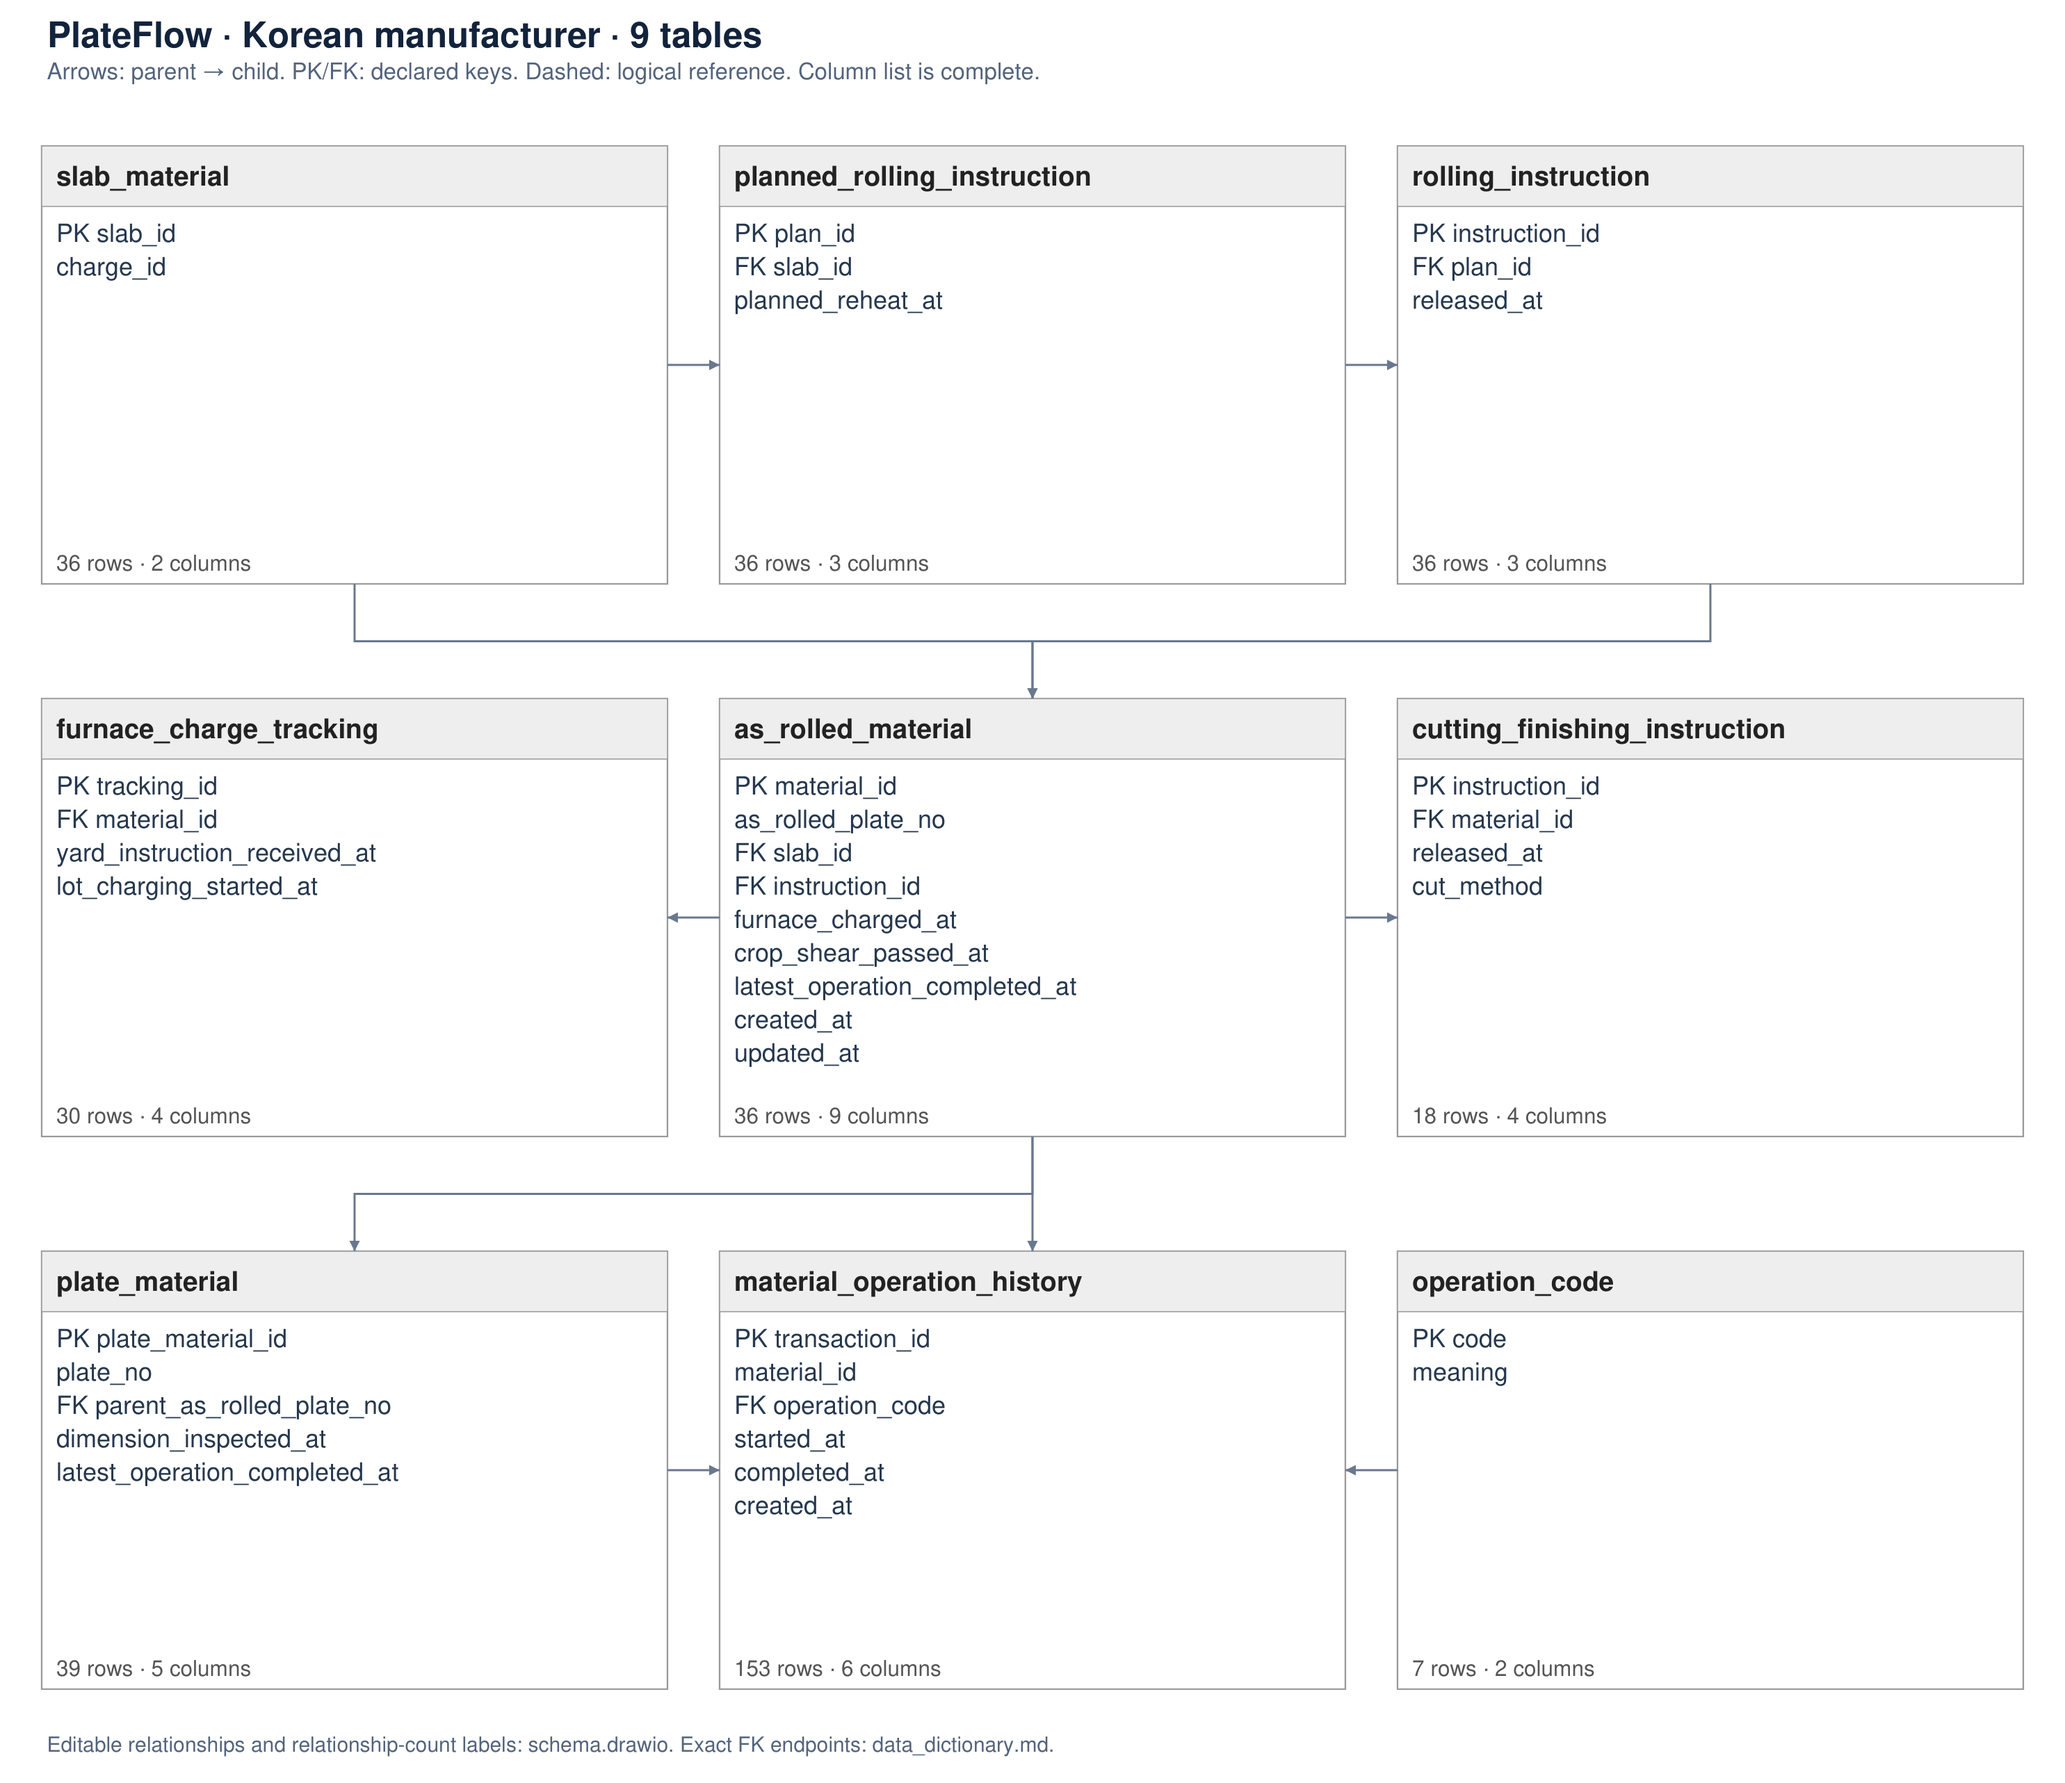
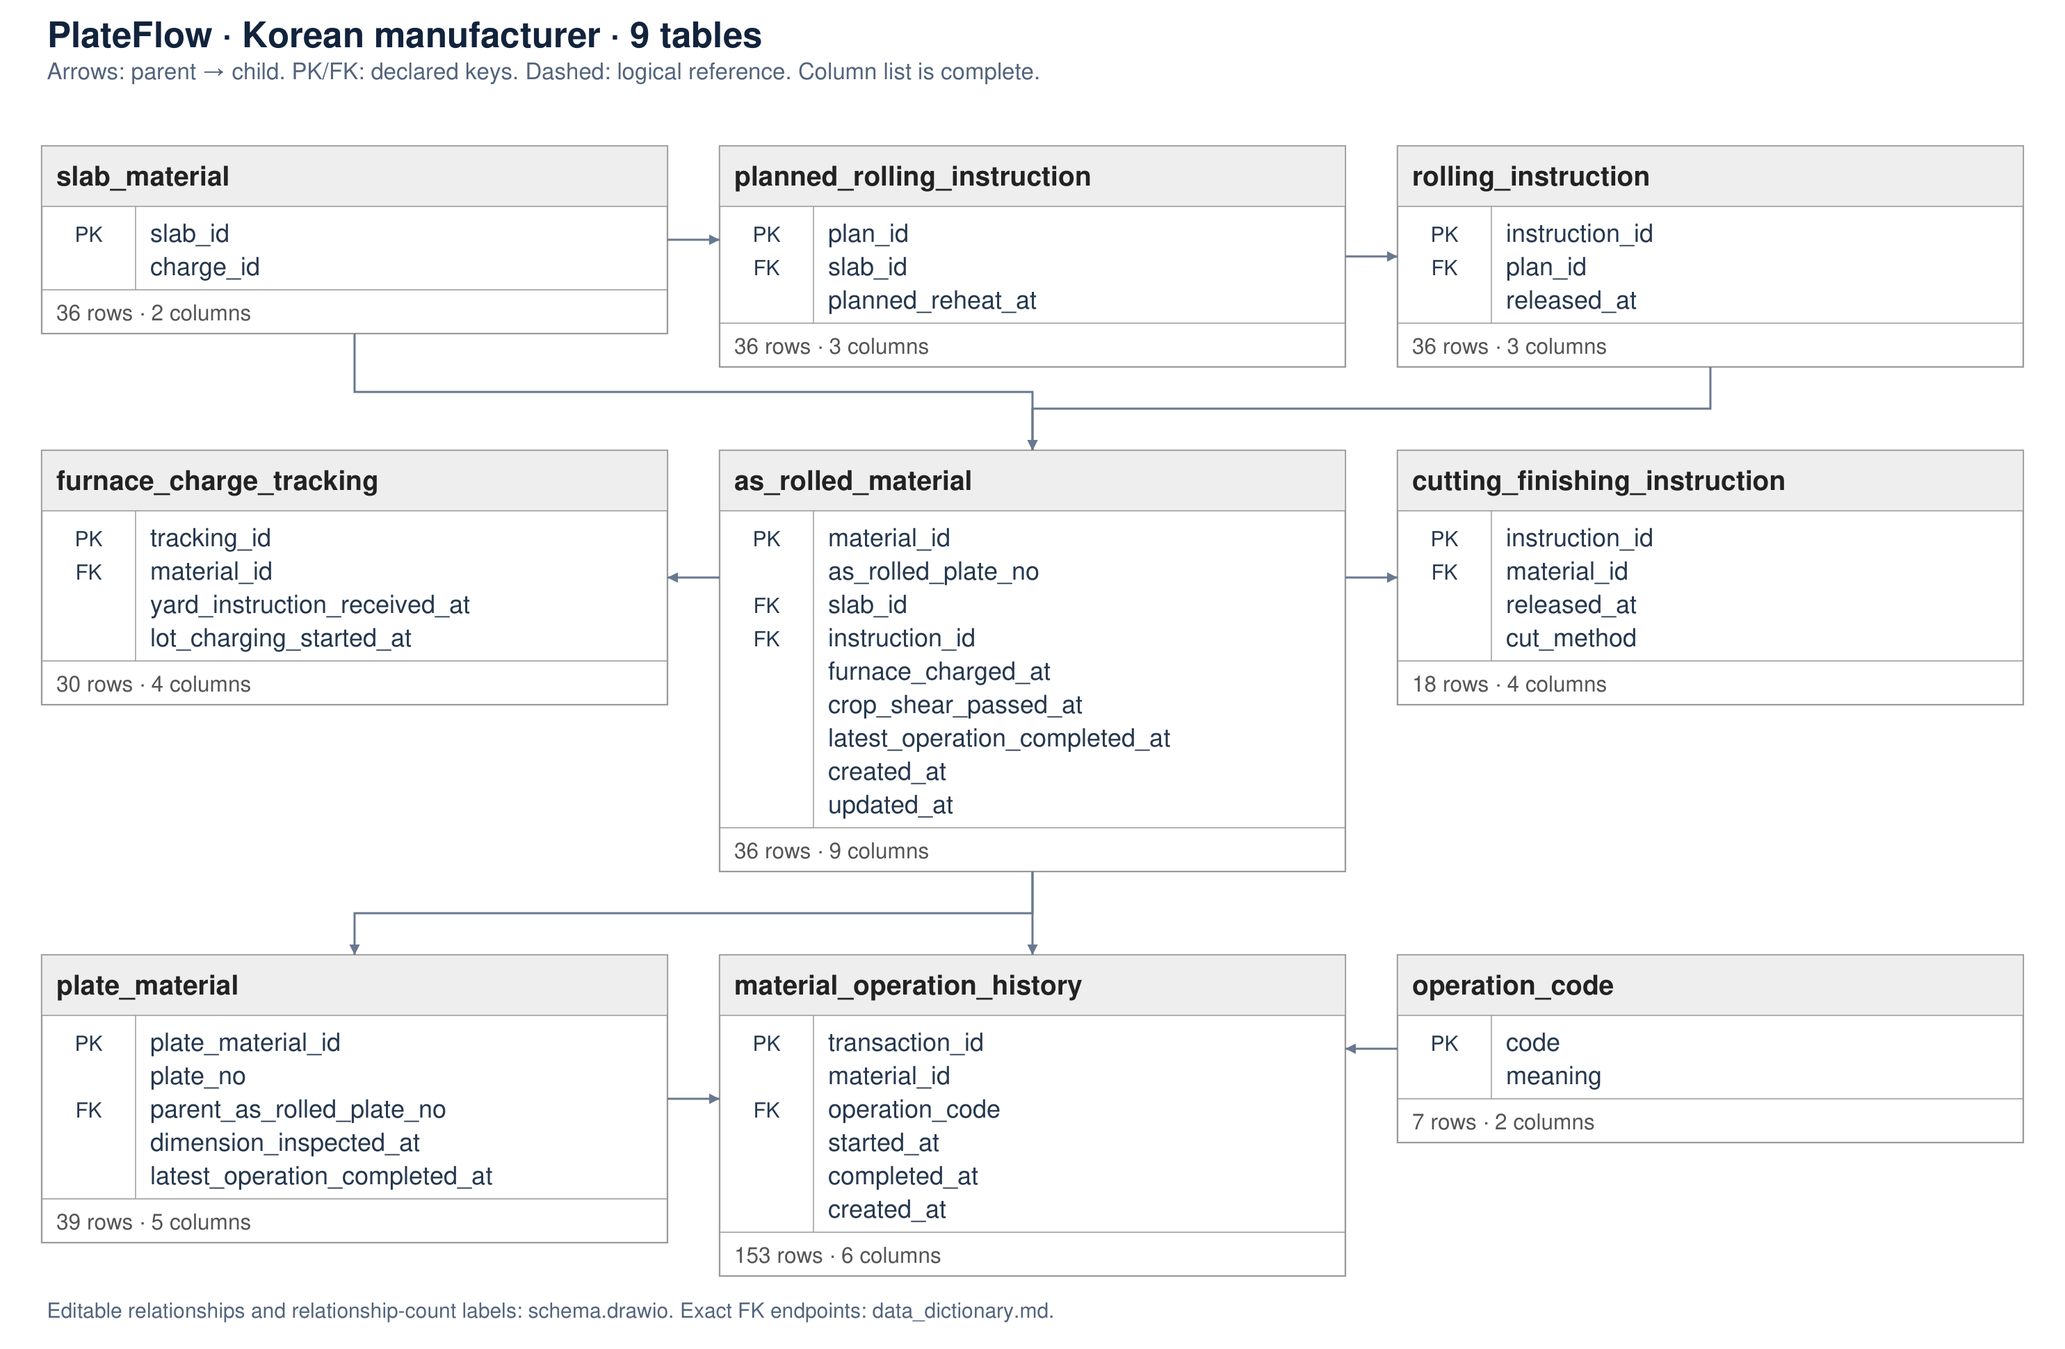
Add dedicated PK/FK column and compact schema table heights

diff --git a/make_docs.py b/make_docs.py
@@ -44,8 +44,15 @@ def build(name,positions,title):
   relationships += [dict(parent=t,child="material_operation_history",label="logical 1 : 0..N",logical=True,from_col="material_id",to_col="material_id" if t=="as_rolled_material" else "plate_material_id") for t in ["as_rolled_material","plate_material"]]
  js=lambda n,o:(out/n).write_text(json.dumps(o,indent=2)+"\n")
  js("schema_summary.json",dict(table_count=len(tables),tables={n:dict(row_count=i["rows"],column_count=len(i["cols"]),primary_key=[r["name"] for r in i["cols"] if r["pk"]]) for n,i in info.items()},relationships=relationships))
- width=1980; height=1180 if name=="universityflow" else 1710; bw,bh=600,420
- positions={n:(40+round((x-65)/510)*650,140+round((y-130)/350)*530) for n,(x,y) in positions.items()}
+ width,bw,key_width=1980,600,90
+ heights={n:116+32*len(i["cols"]) for n,i in info.items()}
+ grid={n:(round((x-65)/510),round((y-130)/350)) for n,(x,y) in positions.items()}
+ row_y={};cursor=140
+ for row in sorted({r for _,r in grid.values()}):
+  row_y[row]=cursor
+  cursor+=max(heights[n] for n,(_,r) in grid.items() if r==row)+80
+ positions={n:(40+col*650,row_y[row]) for n,(col,row) in grid.items()}
+ height=cursor-10
  svg=[f'<svg xmlns="http://www.w3.org/2000/svg" width="{width}" height="{height}" viewBox="0 0 {width} {height}">', '<rect width="100%" height="100%" fill="#ffffff"/>',
  '<defs><marker id="arrow" viewBox="0 0 10 10" refX="9" refY="5" markerWidth="7" markerHeight="7" orient="auto-start-reverse"><path d="M 0 0 L 10 5 L 0 10 z" fill="#69788e"/></marker></defs>',
  f'<text x="45" y="45" font-family="sans-serif" font-size="34" font-weight="bold" fill="#12233c">{esc(title)} · {len(tables)} tables</text>',
@@ -57,10 +64,11 @@ def build(name,positions,title):
  edge_svg=[]
  for j,r in enumerate(relationships):
   x1,y1=positions[r["parent"]];x2,y2=positions[r["child"]]
-  if y2>y1: sx,sy,tx,ty=x1+bw/2,y1+bh,x2+bw/2,y2
-  elif y2<y1:sx,sy,tx,ty=x1+bw/2,y1,x2+bw/2,y2+bh
-  elif x2>x1:sx,sy,tx,ty=x1+bw,y1+bh/2,x2,y2+bh/2
-  else:sx,sy,tx,ty=x1,y1+bh/2,x2+bw,y2+bh/2
+  h1,h2=heights[r["parent"]],heights[r["child"]]
+  if y2>y1: sx,sy,tx,ty=x1+bw/2,y1+h1,x2+bw/2,y2
+  elif y2<y1:sx,sy,tx,ty=x1+bw/2,y1,x2+bw/2,y2+h2
+  elif x2>x1:sx,sy,tx,ty=x1+bw,y1+min(h1,h2)/2,x2,y2+min(h1,h2)/2
+  else:sx,sy,tx,ty=x1,y1+min(h1,h2)/2,x2+bw,y2+min(h1,h2)/2
   mid=(sy+ty)/2
   dash=' stroke-dasharray="7 5"' if r["logical"] else ""
   edge_svg.append(f'<path d="M {sx} {sy} L {sx} {mid} L {tx} {mid} L {tx} {ty}" fill="none" stroke="#69788e" stroke-width="2"{dash}/>')
@@ -72,20 +80,33 @@ def build(name,positions,title):
   edge=ET.SubElement(root,"mxCell",id="e"+str(j),value=r["from_col"]+"; "+r["label"],style="edgeStyle=orthogonalEdgeStyle;rounded=0;endArrow=block;html=1;"+("dashed=1;" if r["logical"] else ""),edge="1",parent="1",source=r["parent"],target=r["child"])
   ET.SubElement(edge,"mxGeometry",relative="1",attrib={"as":"geometry"})
  for t in tables:
-  n=t["table"];i=info[n];x,y=positions[n];pk={r["name"] for r in i["cols"] if r["pk"]};fk={r["from"] for r in i["fk"]}
+  n=t["table"];i=info[n];x,y=positions[n];bh=heights[n];pk={r["name"] for r in i["cols"] if r["pk"]};fk={r["from"] for r in i["fk"]}
   svg.append(f'<rect x="{x}" y="{y}" width="{bw}" height="{bh}" fill="white" stroke="#9a9a9a" stroke-width="1.5"/>')
   svg.append(f'<rect x="{x}" y="{y}" width="{bw}" height="58" fill="#eeeeee" stroke="#9a9a9a"/>')
   svg.append(f'<text x="{x+14}" y="{y+38}" font-family="sans-serif" font-size="26" font-weight="bold" fill="#222222">{esc(n)}</text>')
-  labels=[]
-  for j,c in enumerate(i["cols"]):
-   tag=("PK " if c["name"] in pk else "")+("FK " if c["name"] in fk else "")
-   label=tag+c["name"];labels.append(label)
-   svg.append(f'<text x="{x+14}" y="{y+92+j*32}" font-family="sans-serif" font-size="24" fill="#26384e">{esc(label)}</text>')
-  svg.append(f'<text x="{x+14}" y="{y+bh-13}" font-family="sans-serif" font-size="21" fill="#555555">{i["rows"]} rows · {len(i["cols"])} columns</text>')
+  divider_y=58+16+32*len(i["cols"])
+  svg.append(f'<path d="M {x+key_width} {y+58} L {x+key_width} {y+divider_y} M {x} {y+divider_y} L {x+bw} {y+divider_y}" fill="none" stroke="#9a9a9a" stroke-width="1"/>')
   node=ET.SubElement(root,"mxCell",id=n,value=n,style="shape=swimlane;startSize=58;rounded=0;whiteSpace=wrap;html=1;align=left;spacingLeft=16;fillColor=#eeeeee;swimlaneFillColor=#ffffff;strokeColor=#9a9a9a;fontColor=#222222;fontSize=26;fontStyle=1;collapsible=0;",vertex="1",parent="1")
   ET.SubElement(node,"mxGeometry",x=str(x),y=str(y),width=str(bw),height=str(bh),attrib={"as":"geometry"})
-  body=ET.SubElement(root,"mxCell",id=n+"_columns",value="".join('<div style="line-height:32px">'+esc(label)+'</div>' for label in labels)+f'<div style="margin-top:14px;font-size:21px">{i["rows"]} rows · {len(i["cols"])} columns</div>',style="text;rounded=0;whiteSpace=wrap;html=1;align=left;verticalAlign=top;spacingLeft=16;spacingTop=12;fontColor=#26384e;fontSize=24;fontStyle=0;fillColor=none;strokeColor=none;",vertex="1",parent=n,connectable="0")
-  ET.SubElement(body,"mxGeometry",x="0",y="58",width=str(bw),height=str(bh-58),attrib={"as":"geometry"})
+  for suffix,x1,y1,x2,y2 in [("key_divider",key_width,58,key_width,divider_y),("footer_divider",0,divider_y,bw,divider_y)]:
+   line=ET.SubElement(root,"mxCell",id=n+"_"+suffix,style="endArrow=none;startArrow=none;rounded=0;strokeColor=#9a9a9a;",edge="1",parent=n)
+   geo=ET.SubElement(line,"mxGeometry",relative="1",attrib={"as":"geometry"})
+   ET.SubElement(geo,"mxPoint",x=str(x1),y=str(y1),attrib={"as":"sourcePoint"})
+   ET.SubElement(geo,"mxPoint",x=str(x2),y=str(y2),attrib={"as":"targetPoint"})
+  for j,c in enumerate(i["cols"]):
+   tags=[]
+   if c["name"] in pk:tags.append("PK")
+   if c["name"] in fk:tags.append("FK")
+   key=", ".join(tags)
+   svg.append(f'<text x="{x+key_width/2}" y="{y+92+j*32}" text-anchor="middle" font-family="sans-serif" font-size="20" fill="#26384e">{esc(key)}</text>')
+   svg.append(f'<text x="{x+key_width+14}" y="{y+92+j*32}" font-family="sans-serif" font-size="24" fill="#26384e">{esc(c["name"])}</text>')
+   for part,value,cx,cw,fs,align in [("key",key,0,key_width,20,"center"),("name",c["name"],key_width,bw-key_width,24,"left")]:
+    cell=ET.SubElement(root,"mxCell",id=n+"_"+part+"_"+str(j),value=value,style=f"text;rounded=0;whiteSpace=wrap;html=1;align={align};verticalAlign=middle;spacingLeft={14 if part=='name' else 0};fontColor=#26384e;fontSize={fs};fontStyle=0;fillColor=none;strokeColor=none;",vertex="1",parent=n,connectable="0")
+    ET.SubElement(cell,"mxGeometry",x=str(cx),y=str(74+j*32),width=str(cw),height="32",attrib={"as":"geometry"})
+  footer=f'{i["rows"]} rows · {len(i["cols"])} columns'
+  svg.append(f'<text x="{x+14}" y="{y+bh-13}" font-family="sans-serif" font-size="21" fill="#555555">{footer}</text>')
+  cell=ET.SubElement(root,"mxCell",id=n+"_footer",value=footer,style="text;rounded=0;whiteSpace=wrap;html=1;align=left;verticalAlign=middle;spacingLeft=14;fontColor=#555555;fontSize=21;fillColor=none;strokeColor=none;",vertex="1",parent=n,connectable="0")
+  ET.SubElement(cell,"mxGeometry",x="0",y=str(divider_y),width=str(bw),height=str(bh-divider_y),attrib={"as":"geometry"})
  svg.extend(edge_svg)
  svg.append(f'<text x="45" y="{height-30}" font-family="sans-serif" font-size="20" fill="#53647c">Editable relationships and relationship-count labels: schema.drawio. Exact FK endpoints: data_dictionary.md.</text></svg>')
  ET.ElementTree(mx).write(out/"schema.drawio",encoding="utf-8",xml_declaration=True)
